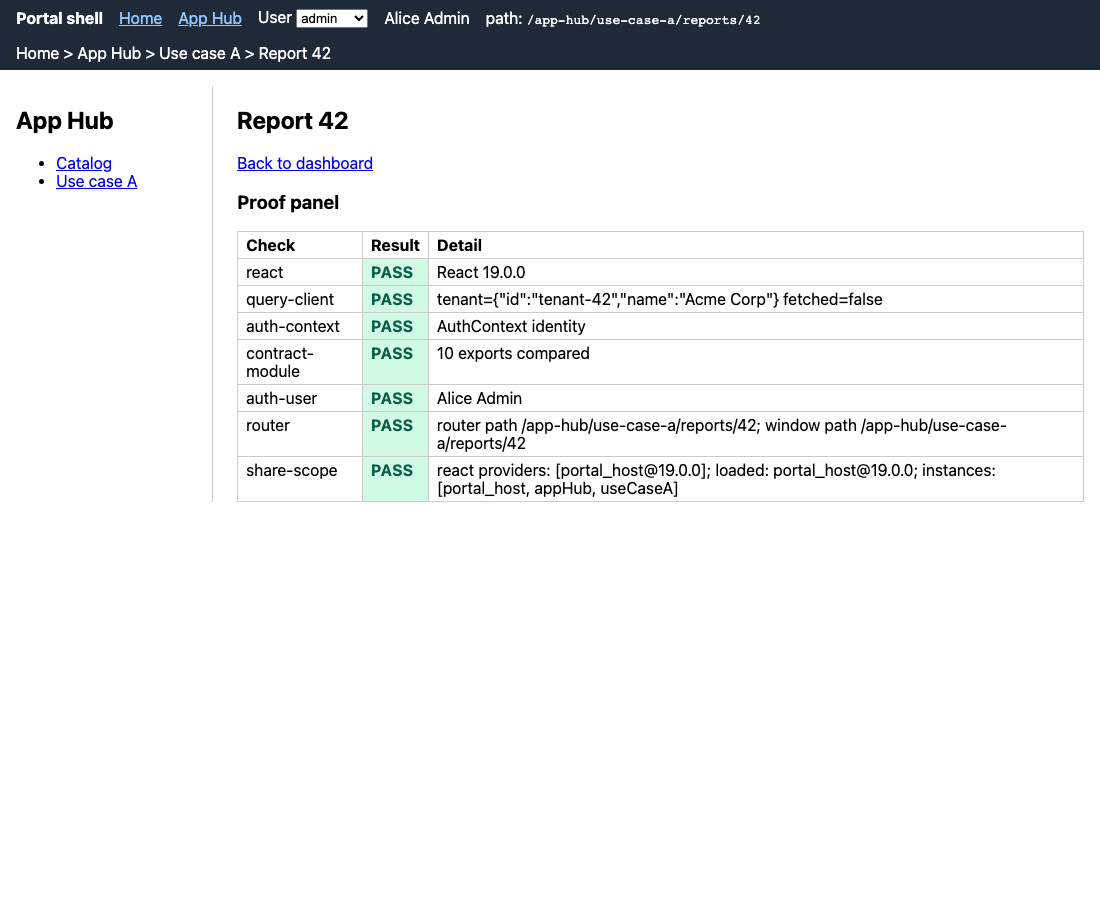
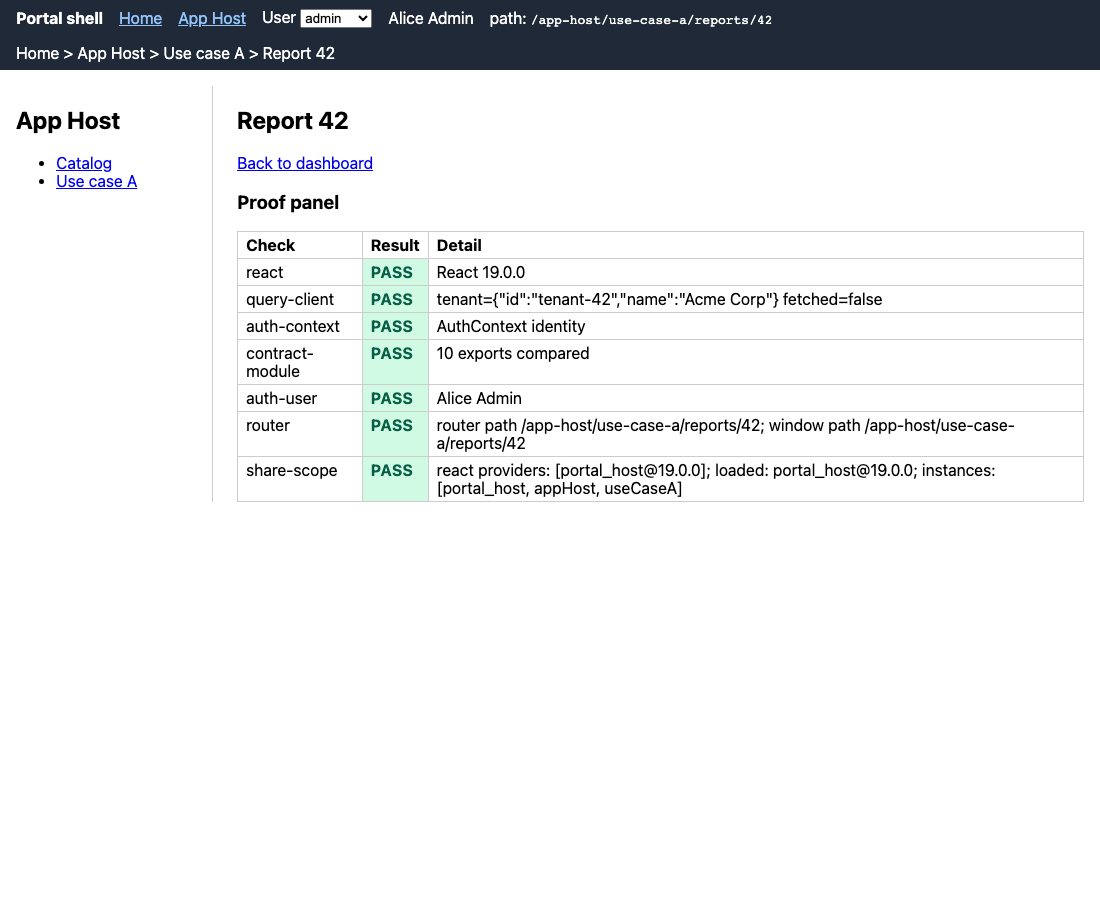
Rename App Hub to App Host

diff --git a/apps/app-host/src/load-use-case.ts b/apps/app-host/src/load-use-case.ts
@@ -10,11 +10,11 @@ const resolveEntry = (entry: string) =>
 const registered = new Set<string>();
 const failures = new Map<string, number>();
 
-// Lazy: registered on the first render of the use-case route, not when App Hub mounts
+// Lazy: registered on the first render of the use-case route, not when App Host mounts
 export const loadUseCase = async (uc: UseCase): Promise<{ default: ComponentType }> => {
   // Evidence for docs/results.md: which runtime instance the module-level functions hit
   const g = globalThis as any;
-  g.__appHubProbe = {
+  g.__appHostProbe = {
     moduleLevelInstance: getInstance()?.name ?? null,
     instances: (g.__FEDERATION__?.__INSTANCES__ ?? []).map((i: any) => i.name),
   };

diff --git a/apps/app-host/vite.config.ts b/apps/app-host/vite.config.ts
@@ -4,12 +4,12 @@ import { defineConfig } from "vite";
 import { federationShared } from "../../config/federation-shared";
 
 export default defineConfig(({ command }) => ({
-  base: command === "build" ? "/V1/mf/app-hub/" : "/",
+  base: command === "build" ? "/V1/mf/app-host/" : "/",
   server: { port: 5174, strictPort: true, origin: "http://localhost:5174", cors: true },
   plugins: [
     react({ babel: { plugins: [["babel-plugin-react-compiler", {}]] } }),
     federation({
-      name: "appHub",
+      name: "appHost",
       filename: "remoteEntry.js",
       exposes: { "./App": "./src/App.tsx" },
       shared: federationShared,

diff --git a/apps/app-host/src/App.tsx b/apps/app-host/src/App.tsx
@@ -4,7 +4,7 @@ import { Link, Navigate, Route, Routes } from "react-router-dom";
 import { loadUseCase } from "./load-use-case";
 import { USE_CASES } from "./use-cases";
 
-import "./app-hub.css";
+import "./app-host.css";
 
 const Catalog = () => (
   <section>
@@ -20,11 +20,11 @@ const Catalog = () => (
 );
 
 export default function App() {
-  useBreadcrumb("App Hub");
+  useBreadcrumb("App Host");
   return (
-    <div className="app-hub">
+    <div className="app-host">
       <aside>
-        <h2>App Hub</h2>
+        <h2>App Host</h2>
         <ul>
           <li>
             <Link to=".">Catalog</Link>

diff --git a/apps/shell/src/app/router.tsx b/apps/shell/src/app/router.tsx
@@ -13,10 +13,10 @@ export const router = createBrowserRouter(
       children: [
         { path: "/", element: <HomePage /> },
         {
-          path: "/app-hub/*",
+          path: "/app-host/*",
           element: (
-            <RequireModule moduleId="app-hub">
-              <RemoteBoundary id="appHub" load={() => loadRemoteApp("appHub")} />
+            <RequireModule moduleId="app-host">
+              <RemoteBoundary id="appHost" load={() => loadRemoteApp("appHost")} />
             </RequireModule>
           ),
         },

diff --git a/apps/shell/src/features/auth/permissions.ts b/apps/shell/src/features/auth/permissions.ts
@@ -2,8 +2,8 @@ import { ModuleId } from "@portal/contract";
 
 // Same role mapping as the reference portal
 const rolePermissions: Record<string, ModuleId[]> = {
-  admin: [ModuleId.Billing, ModuleId.Observability, ModuleId.Documentation, ModuleId.AppHub],
-  use_case_viewer: [ModuleId.AppHub],
+  admin: [ModuleId.Billing, ModuleId.Observability, ModuleId.Documentation, ModuleId.AppHost],
+  use_case_viewer: [ModuleId.AppHost],
   metrics_viewer: [ModuleId.Observability],
   billing_viewer: [ModuleId.Billing],
 };

diff --git a/apps/shell/src/widgets/portal-layout/PortalLayout.tsx b/apps/shell/src/widgets/portal-layout/PortalLayout.tsx
@@ -17,7 +17,7 @@ export const PortalLayout = () => {
       <header className="portal-header">
         <strong>Portal shell</strong>
         <Link to={ROUTES.HOME}>Home</Link>
-        <Link to={ROUTES.APP_HUB}>App Hub</Link>
+        <Link to={ROUTES.APP_HOST}>App Host</Link>
         <label>
           User{" "}
           <select data-testid="user-select" value={key} onChange={(e) => setKey(e.target.value)}>

diff --git a/apps/app-host/src/use-cases.ts b/apps/app-host/src/use-cases.ts
@@ -5,7 +5,7 @@ export const USE_CASES = [
     remoteId: "useCaseA",
     path: "use-case-a",
     title: "Use case A",
-    subtitle: "Example use case loaded by App Hub.",
+    subtitle: "Example use case loaded by App Host.",
     entry: import.meta.env.DEV ? "http://localhost:5175/remoteEntry.js" : "mf/use-case-a/remoteEntry.js",
   },
 ] as const;

diff --git a/apps/shell/src/pages/home.tsx b/apps/shell/src/pages/home.tsx
@@ -3,6 +3,6 @@ import { useAuth } from "@portal/contract";
 export const HomePage = () => (
   <>
     <h1>Home</h1>
-    <p>Signed in as {useAuth().user?.name}. Open App Hub to load app-hub, then Use case A.</p>
+    <p>Signed in as {useAuth().user?.name}. Open App Host to load app-host, then Use case A.</p>
   </>
 );

diff --git a/packages/contract/src/auth.tsx b/packages/contract/src/auth.tsx
@@ -5,7 +5,7 @@ export const ModuleId = {
   Billing: "billing",
   Observability: "observability",
   Documentation: "documentation",
-  AppHub: "app-hub",
+  AppHost: "app-host",
 } as const;
 
 export type ModuleId = (typeof ModuleId)[keyof typeof ModuleId];

diff --git a/apps/app-host/src/app-host.css b/apps/app-host/src/app-host.css
@@ -1,12 +1,12 @@
-.app-hub {
+.app-host {
   display: flex;
   gap: 24px;
 }
-.app-hub aside {
+.app-host aside {
   min-width: 180px;
   border-right: 1px solid #ccc;
   padding-right: 16px;
 }
-.app-hub .content {
+.app-host .content {
   flex: 1;
 }

diff --git a/apps/app-host/index.html b/apps/app-host/index.html
@@ -1,0 +1,10 @@
+<!DOCTYPE html>
+<html lang="en">
+  <head>
+    <meta charset="UTF-8" />
+    <title>app-host remote</title>
+  </head>
+  <body>
+    <p>Remote app-host: loaded through the shell (no standalone mode).</p>
+  </body>
+</html>

diff --git a/apps/shell/src/shared/routes/routes.ts b/apps/shell/src/shared/routes/routes.ts
@@ -1,6 +1,6 @@
 export const ROUTES = {
   HOME: "/",
-  APP_HUB: "/app-hub",
+  APP_HOST: "/app-host",
 } as const;
 
 // Public URL prefix: "/V1" behind the API gateway, none in dev
